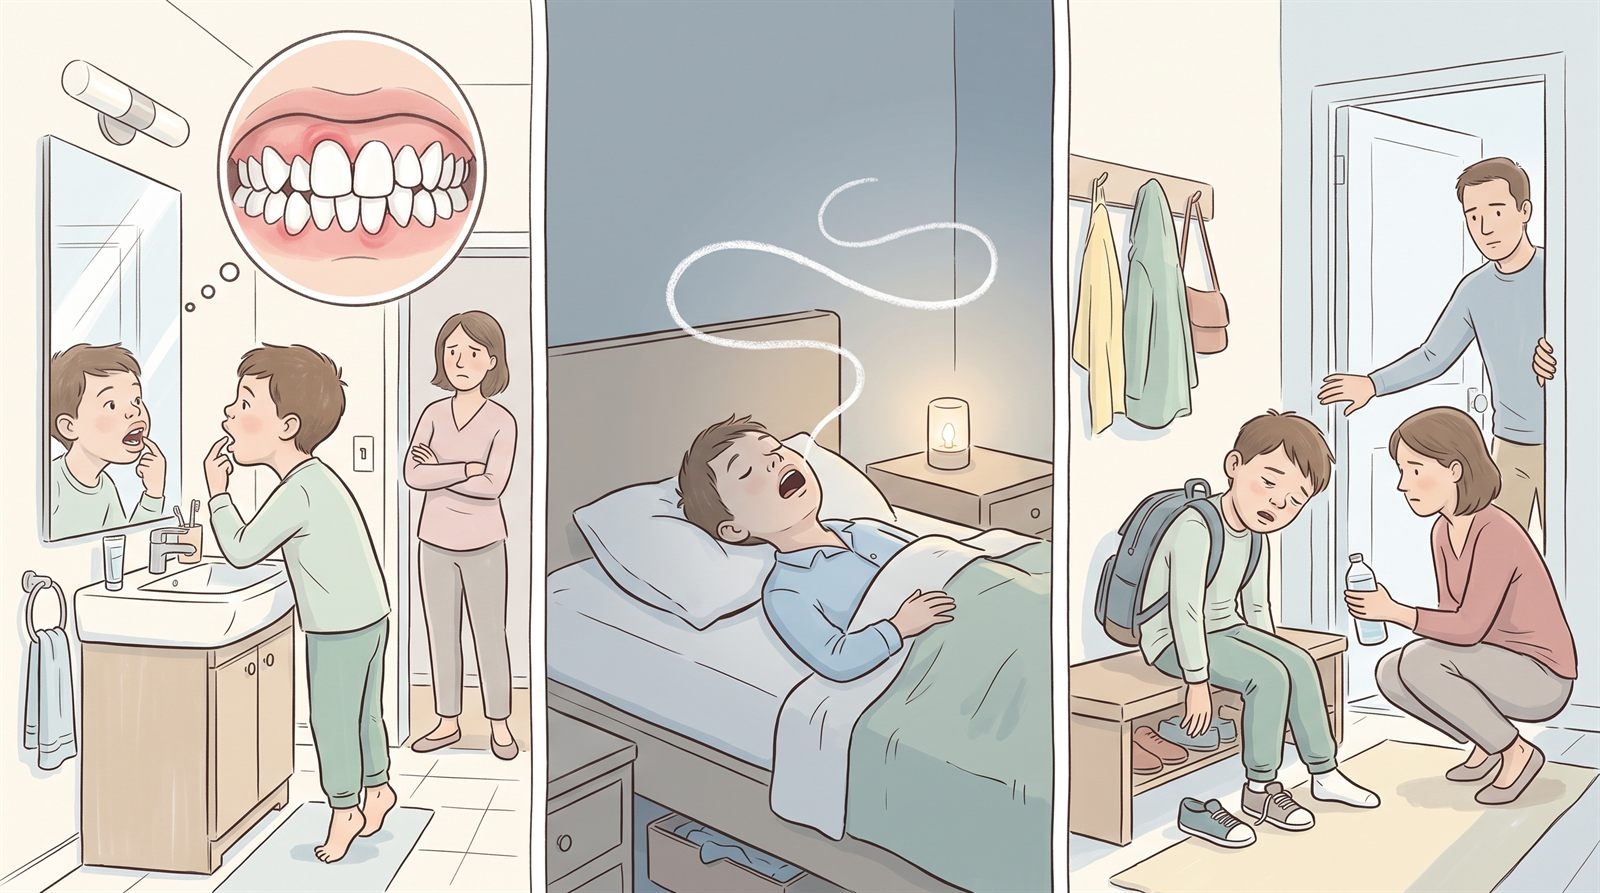
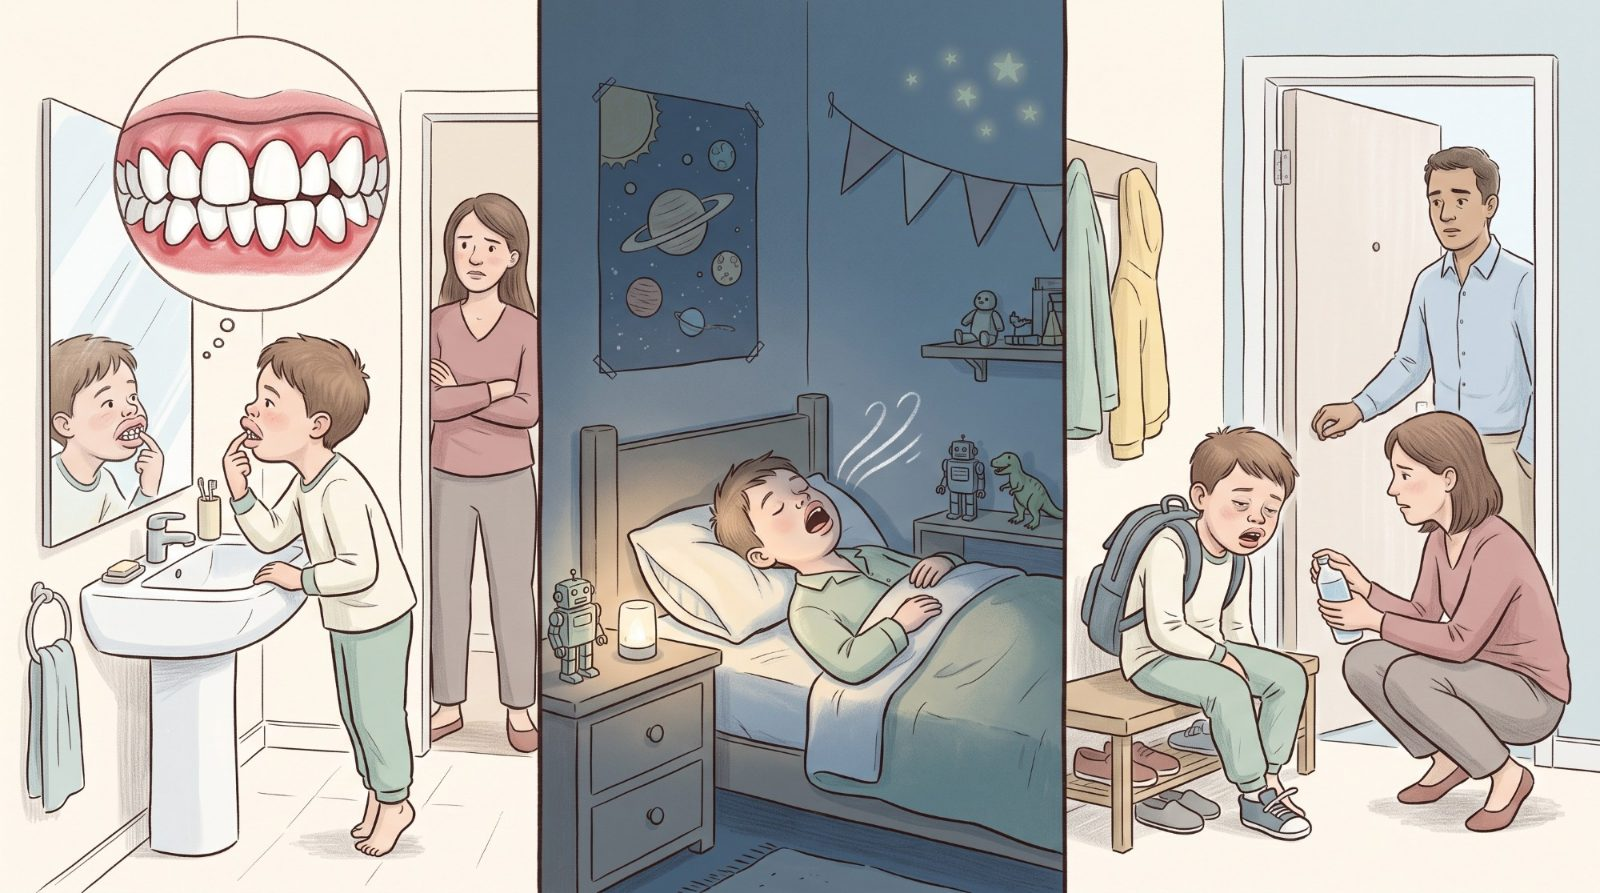
〈擴張牙弓〉HERO 換成第二版插畫
九輪定案：氣息改成三四條短平行弧（原本那條長曲線讀起來像靈魂出竅）、
放大圈的擁擠照參考照逐顆點名、牙齦紅腫加重、夜晚那一格真的變暗並放進男孩房的
道具、上唇加厚、玄關補上掛鉤鞋櫃、每個人的衣服分色並補上皺褶與領口袖口。

三個尺寸維持 2000×1116／1600×893／800×447，所以 sizes、og:image:width/height
都不必改；只換圖檔、沒有動 post-meta 與 <main>，那一篇的「最後更新」仍是 2026-08-02。
最終提示詞逐字存進 ILLUSTRATION.md 第七節的「附」。

diff --git a/ILLUSTRATION.md b/ILLUSTRATION.md
@@ -734,9 +734,10 @@
    ⚠ 兩個落選的替代路：**放大圈剖面**（第 10 條那招）會變成使用者嫌過的
    「太學術」（第 11 條）；**純靠物理證據**（嘴唇乾裂之類）落在第 1 條
    「畫不穩的細節」裡。**線本身沒有錯，錯的是它只有一條而且會漂。**
-   ⚠ **站上那張還沒換**（`assets/hero-arch-photo-*.jpg`）—— 等重生成的圖進來再照
-   本節「收到新圖要做的事」換掉；只換圖檔、不動 `post-meta` 與 `<main>`，
-   那一篇的「最後更新」不會跳（雜湊不涵蓋圖檔內容）。
+   ✅ **2026-08-16 九輪之後定案並換上線**（`assets/hero-arch-photo-*.jpg`）。
+   只換了圖檔、`post-meta` 與 `<main>` 一個字都沒動，所以那一篇的「最後更新」
+   仍然是 2026-08-02（雜湊不涵蓋圖檔內容）—— 修圖不是內容更新，這是對的。
+   最終的提示詞逐字存在本節最後的「附」。
 18. ⚠⚠ **提示詞為了修內容越寫越長，風格就會被擠掉。**〈擴張牙弓〉重生成第一輪，
    使用者：
    > 「有兩個問題　第一個　風格被簡化了　另外　牙齒不夠凌亂」
@@ -854,16 +855,19 @@
 
 ---
 
-### 附：〈擴張牙弓〉定稿的提示詞（逐字，2026-08-16 由使用者提供）
+### 附：〈擴張牙弓〉的提示詞（逐字）
 
-這是產生站上現在那張 `assets/hero-arch-photo-*.jpg` 的提示詞，**逐字保存、不要改寫**。
-之所以留在這裡，是因為第 19 條那個教訓：**改圖要從這一份改，不要從零重寫。**
+**下面這一份就是站上現在那張 `assets/hero-arch-photo-*.jpg`**（2026-08-16 第二版，
+九輪定案）。**逐字保存、不要改寫**；要再改圖就從這一份改，只換出問題的那一段
+（第 19 條）。
 
-> ⚠ 已知要動的兩處（2026-08-16 使用者回饋，尚未重生成完成）：
-> ・`MIDDLE PANEL` 的 `a thick restless white hand-drawn line ... loops in the air above him`
->   —— 那個 `loops above him` 就是「靈魂出竅」的來源，改法見第 17 條。
-> ・`INSET` 的擁擠程度不足，改法見第 18 條末與第 19 條（照參考照逐顆點名）。
-> **其餘每一段都是通過的，尤其 `THE CHILD'S FACE` 與 `COLOUR`，不要動。**
+> **這一版相對於第一版（2026-08-16 上午上線的那張）改了什麼**，對照第 17~19 條：
+> ① 氣息從「一條會繞圈的長白帶」改成三四條短平行弧（原本讀成靈魂出竅）；
+> ② `INSET` 的擁擠逐顆點名並照使用者給的三張參考照加重，牙齦紅腫改用「邊緣鼓起、
+> 乳突最腫」的形狀描述；③ 夜晚那一格明講比另外兩格暗、牆不可以留白，`COLOUR` 段把
+> high-key 限定在第一、三格；④ 上唇加厚；⑤ 房間與玄關逐項列出道具；
+> ⑥ `PEOPLE` 拆成 `CLOTHING, COLOUR`（逐人指派顏色）與 `CLOTHING, RENDERING`
+> （兩三階、皺褶與領口袖口）。**第一版的原文若要回看，見 `git show e43982a:ILLUSTRATION.md`。**
 
 ```
 Editorial illustration, 16:9 landscape.
@@ -879,39 +883,94 @@ and his reflection. Behind him, his mother stands in the doorway with her arms l
 folded, watching him with a faint frown — concerned and puzzled, not angry, not scolding.
 INSET IN THIS PANEL: a round circular close-up, ringed with a thin hand-drawn line and
 joined to the mirror by three small dots, floating in the upper part of the panel. Inside
-it, drawn large and clear: his upper front teeth are CROWDED — the row packed tight with
-no gaps anywhere, one central incisor rotated and overlapping in front of its neighbour,
-the tooth beside it tipped back behind the line, the whole arch narrow so the teeth jostle
-each other. Along the edge of these teeth the gum is slightly puffy and a soft pink-red,
-gently inflamed. The teeth themselves are clean and white — no decay, no dark spots, no
-missing teeth, no blood. Keep the inset simple and illustrative, not a photorealistic
-mouth interior.
+it, drawn large and clear: his upper front teeth are SEVERELY CROWDED, as crowded as a
+real orthodontic "before" photograph — not mildly uneven, not a tidy row. The dental arch
+is plainly too narrow for the teeth, so they fight each other for room:
+  • the two central incisors OVERLAP — one is rotated and sits clearly in front of the
+    other, covering a third of it;
+  • one lateral incisor is shoved right BACK behind the row, so far back that its
+    neighbours close over it and barely half of it can be seen;
+  • on the other side the canine is pushed UP AND OUTWARD, erupting high and in front of
+    the row, its point standing clearly above and over the teeth beside it;
+  • the biting edges sit at obviously different heights and form a broken zig-zag line,
+    never a smooth even curve;
+  • there is no gap anywhere — every tooth presses hard against the next.
+THE GUM HERE IS CLEARLY INFLAMED, and this must be easy to see: along the edge of these
+crowded teeth the gum is a deep rosy red, distinctly redder than healthy pale pink gum,
+and visibly SWOLLEN — the margin is puffed and rounded so it bulges a little over the
+edges of the teeth, and the small triangles of gum squeezed between the overlapping teeth
+are the reddest and most swollen of all, plainly tender. The redness is strongest exactly
+where the teeth are jammed together and eases back towards calmer pink away from them. It
+is a rich muted rose-red — never a glaring neon or blood red, and no blood, no bleeding,
+no wound. The teeth themselves are clean and white — no decay, no dark spots, no missing
+teeth. Keep the inset simple and illustrative, not a photorealistic mouth interior.
 
-MIDDLE PANEL — the same night, his bedroom. He is asleep on his back, head tipped back,
-mouth wide open, blanket kicked half off. A thick restless white hand-drawn line of breath
-rises from his open mouth and loops in the air above him. A small warm night light on the
-bedside table is the only light source.
+MIDDLE PANEL — the same night, his bedroom. IT IS THE MIDDLE OF THE NIGHT AND THE ROOM IS
+DARK — this panel must read as clearly, obviously darker than the two panels beside it.
+The wall behind the bed, the bedding and the air are deep dusty blue in shadow; do NOT
+leave the wall pale, cream, white or empty. The ONLY light is a SMALL night light on the
+bedside table — no bigger than the boy's fist, a little low lamp, NOT a tall shaded
+bedside lamp — throwing a soft warm pool over the pillow, over his face and over the near
+edge of the quilt, then falling away quickly into the blue darkness so the rest of the
+room sinks into shadow. Low key but clean and luminous — never murky, never flat black.
+THIS IS A 9-YEAR-OLD BOY'S ROOM AND IT MUST LOOK LIVED IN, not a bare spare room:
+  • on the wall above and beside the bed — a picture poster with NO writing on it (a
+    dinosaur, or the planets of the solar system), a string of small blank triangular
+    pennants, and — at most three or four — small, very faint glow-in-the-dark star
+    stickers, gathered in ONE upper corner only. The wall stays mostly plain dark blue;
+    the stars are a barely-there hint, never a starry sky and never scattered across the
+    whole wall;
+  • on the bedside table beside the little lamp, and on a small shelf on the wall — FIVE
+    OR SIX SMALL TOY FIGURES of the kind boys of that age like: a chunky jointed robot, a
+    green tyrannosaur, a small astronaut, a little racing car, two round-eyed capsule-toy
+    monsters. They are all invented, generic toys — NOT copies of any real branded
+    character, franchise or mascot, and they carry no logos and no writing;
+  • on and around the bed — a patterned quilt (small stars or a check), a soft stuffed
+    animal tucked against the pillow, a book lying face-down on the floor with a blank
+    cover and blank spine, slippers by the bed, his school bag slumped against the table;
+  • only the things nearest the night light catch its warm glow; everything further away
+    is a soft blue silhouette. His face stays the brightest thing in the panel — the
+    clutter must never compete with him.
+He is asleep on his back, head tipped back, mouth wide open, blanket kicked half off. From
+his open mouth, THREE OR FOUR SHORT PARALLEL WHITE HAND-DRAWN ARCS of breath begin right
+at his lips, touching them, and fan gently upward and forward, fading out within about one
+head-width — soft chalk quality, solid at the lips and thinning to dry flecks at the far
+end, all running the same way and evenly spaced. This is moving air, not an object: it
+must NOT be one long continuous ribbon, must NOT loop or curl back on itself, must NOT
+wander across the panel, must NOT grow larger as it travels away from him, and must NOT
+resemble smoke, steam, a wisp, a spirit or a soul leaving the body. Keep the whole marking
+small, no taller than his head.
 
-RIGHT PANEL — the next morning, the entryway. He sits slumped on the low shoe bench with
-one shoe only half pulled on, his backpack already on both shoulders and dragging them
-down. His back is rounded, his head droops forward and tilts to one side, his arms hang
-loose with one hand resting flat on the bench beside him. He is barely awake: both eyes
-are heavy-lidded, narrowed to sleepy slits and almost closed, with faint soft shadows
-beneath them; his mouth rests open in his usual way. He is DROWSY AND SLUGGISH, NOT UPSET
-— his eyebrows stay relaxed and level, never raised or angled in the middle. NO tears, no
-screwed-up face, no wide downturned crying mouth. He is NOT rubbing his eyes, NOT covering
-his face, and NOT holding his hands anywhere near his eyes. His mother crouches in front
-of him holding out a water bottle, and his father stands at the open door with a hand on
-the frame; the two of them exchange the same quiet worried look. Cool pale morning light
-through the doorway.
+RIGHT PANEL — the next morning, the entryway of the flat. THIS MUST READ UNMISTAKABLY AS A
+FAMILY ENTRANCE HALL, not a bare white corner — furnish it: a row of wall hooks beside the
+door carrying two or three coats and a shoulder bag; a low shoe cabinet or shoe rack under
+the bench, filled with several pairs of shoes, some lined up and some kicked over; house
+slippers waiting on the floor; a doormat just inside the door; an umbrella leaning in the
+corner; a small tray or dish for keys on a narrow console; a potted plant; a light switch
+on the wall; a small framed picture with a simple wordless image. The walls and floor must
+not be left empty, and the floor is a real surface (wood or tile), not blank white.
+He sits slumped on the low shoe bench with one shoe only half pulled on, his backpack
+already on both shoulders and dragging them down. His back is rounded, his head droops
+forward and tilts to one side, his arms hang loose with one hand resting flat on the bench
+beside him. He is barely awake: both eyes are heavy-lidded, narrowed to sleepy slits and
+almost closed, with faint soft shadows beneath them; his mouth rests open in his usual way.
+He is DROWSY AND SLUGGISH, NOT UPSET — his eyebrows stay relaxed and level, never raised
+or angled in the middle. NO tears, no screwed-up face, no wide downturned crying mouth. He
+is NOT rubbing his eyes, NOT covering his face, and NOT holding his hands anywhere near
+his eyes. His mother crouches in front of him holding out a water bottle, and his father
+stands at the open door with a hand on the frame; the two of them exchange the same quiet
+worried look. Cool pale morning light through the doorway.
 
 THE CHILD'S FACE — Draw this STRONGLY and IDENTICALLY in all three panels. His whole lower
-face pushes forward from the nose down. The upper lip is thick, full and rolled outward,
-sitting clearly in front of the lower lip, giving him a distinctly pouty, protruding mouth.
-His lips never fully close — in the mirror panel and the morning panel they rest apart with
-the edge of the front teeth showing between them. The chin is short and set back with a
-soft crease beneath the lower lip. The nose reads small against the pushed-forward mouth.
-This must be unmistakable at a glance in every panel, asleep and awake.
+face pushes forward from the nose down. The upper lip is VERY THICK — deep and pillowy
+from top to bottom, noticeably fuller than an ordinary child's, clearly a soft rounded
+volume and never a thin drawn line — and it rolls outward and sits distinctly in front of
+the lower lip, giving him a strongly pouty, protruding mouth. Both lips are full, with the
+upper the thicker of the two. His lips never fully close — in the mirror panel and the
+morning panel they rest apart with the edge of the front teeth showing between them. The
+chin is short and set back with a soft crease beneath the lower lip. The nose reads small
+against the pushed-forward mouth. This must be unmistakable at a glance in every panel,
+asleep and awake.
 Keep it a real child's face: normal head size and normal head-to-body proportions, no
 rubber-hose or bug-eyed cartoon styling, never mocking. He is an ordinary, well-cared-for
 child who is simply tired and curious — never sad, never crying, never ill-looking, never
@@ -922,6 +981,19 @@ PEOPLE — Simplified illustrative people: minimal features (small dot or short-
 a simple line mouth, a small nose), natural realistic head-to-body proportions, believable
 ages. Not photorealistic. Not faceless. No oversized heads, no noodle limbs. Nobody looks
 at the viewer.
+CLOTHING, COLOUR — the three of them must be easy to tell apart at a glance, so give each
+one a clearly DIFFERENT colour; no two family members wear the same hue, and nobody wears
+the same colour family as the boy: the BOY in pale sage green top and trousers; his MOTHER
+in a muted dusty rose top with warm grey trousers; his FATHER in a soft powder blue shirt.
+Keep each person in their own colour in every panel.
+CLOTHING, RENDERING — clothes are NEVER flat single-tone shapes. Model every garment with
+two or three tones of its own colour: soft coloured-pencil shading in the folds, along the
+sleeves, under the collar, at the hem and wherever the fabric gathers or bunches, so the
+cloth has weight and drape. Draw the garment's real details — collar, cuffs, sleeve seam,
+hem line, button placket, a pocket, the ribbing at a waistband. The pyjamas hang and crease
+differently from the mother's knitted top and the father's shirt. Keep the colours at the
+saturation described in COLOUR — clearly coloured and readable, never washed out into
+almost-white pastels — but always with visible shading and fabric detail inside them.
 
 STYLE — Contemporary printed-magazine editorial illustration. Linework in warm dark brown
 or soft charcoal, NEVER pure black: thin, hand-drawn, weight varies, strokes taper and
@@ -934,22 +1006,28 @@ has a soft chalk quality, clearly hand-made.
 COLOUR — Light, muted and gentle: pale cream and off-white as the ground, dusty sage and
 mint, soft powder blue, muted rose and clay, pale butter yellow, warm grey. Desaturated
 throughout — nothing heavy, nothing brown-dominant, no orange or amber cast, no neon.
-Colour throughout — never greyscale. The night panel is low key but stays clean and never
-turns murky or black. The inflamed gum is a soft muted pink-red, gentle, never a strong
-alarming red.
+Colour throughout — never greyscale. The airy high-key treatment applies to the first and
+third panels; the night panel is genuinely dark and low key — clean and luminous, but
+plainly darker than the others, and never murky or black. The inflamed gum inside the
+inset is the ONE place the picture is allowed to be strong: a deep rosy red that clearly
+reads as swollen and sore, richer than anything else in the image — still a muted rose-red
+rather than a neon or blood red.
 
 CRITICAL — NO WRITING ANYWHERE IN THE IMAGE. No text, letters, words, numbers, logos,
 signage, captions, panel labels, numeral clock faces or watermarks, in any language. The
 backpack, pyjamas and all clothing carry no printed text; toothpaste tubes, bottles and
-packaging in the bathroom are blank; book spines are blank; any screen or mirror sticker
-is blank; there are no arrows or labels between the panels. Where writing would normally
-appear, leave the surface plain.
+packaging in the bathroom are blank; book spines are blank; the bedroom poster, pennants
+and toys carry no writing of any kind; the framed picture in the entryway is wordless; any
+screen or mirror sticker is blank; there are no arrows or labels between the panels. Where
+writing would normally appear, leave the surface plain.
 
 AVOID — greyscale; photorealism; a photorealistic open mouth; faceless or noodle-limbed
 figures; thick uniform black outlines; chrome or iridescent gradients; decayed, dark,
 broken or missing teeth; blood; pain or fear; a crying child, tears, a screwed-up crying
 face, hands rubbing or covering the eyes; parents who look angry or scolding; any
-before-and-after or good-versus-bad comparison.
+before-and-after or good-versus-bad comparison; recognisable branded, franchise or
+licensed characters, mascots or logos on the toys, bedding, posters or clothing; flat
+untextured single-tone clothing; bare empty rooms with nothing in them.
 ```
 
 ---
